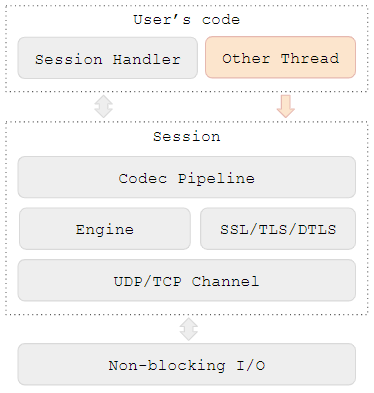
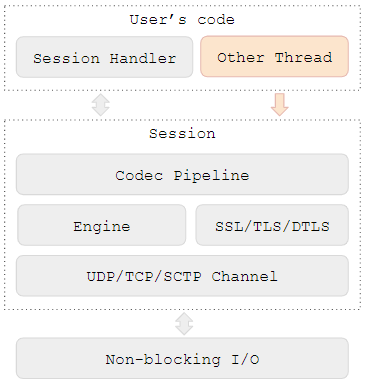
Release1.7.0 (#64)

diff --git a/site/index.html b/site/index.html
@@ -3,7 +3,7 @@
   <head>
     <meta charset="utf-8">
     <meta name="viewport" content="width=device-width, initial-scale=1, shrink-to-fit=no">
-    <meta name="keywords" content="java, non-blocking,asynchronous,networking,framework,socket,nio,udp,tcp,ssl,tls,dtls,protocol engine">
+    <meta name="keywords" content="java, non-blocking,asynchronous,networking,framework,socket,nio,udp,tcp,sctp,ssl,tls,dtls,protocol engine">
     <meta name="description" content="An asynchronous event-driven network application framework for quick and easy development of network applications">
     <meta name="author" content="SNF4J.ORG">
 
@@ -77,7 +77,7 @@
   <h1>Introduction</h1>
   <hr>
    <p>Simple Network Framework for Java (SNF4J) is an asynchronous event-driven network application framework for quick and easy development of network applications.
-   <p>The SNF4J serves as a simple, lightweight and independent network application framework helping in developing high performance and scalable network applications. It provides an asynchronous API via the Java NIO to handle various transports like TCP/IP and UDP/IP.
+   <p>The SNF4J serves as a simple, lightweight and independent network application framework helping in developing high performance and scalable network applications. It provides an asynchronous API via the Java NIO to handle various transports like TCP/IP, UDP/IP and SCTP/IP.
    <p>The framework is designed to be simple in use and moderately easy to understand. Application developers that like to keep their ear to the ground will not be overwhelmed by a tone of source code. It is oriented towards delivering core networking functionality as transferring data between two or more communicating network applications in a simple but effective way. To provide privacy and integrity of transferred data it provides support for the SSL/TLS/DTLS protocols.
 
    <div class="float-right mr-5">
@@ -91,9 +91,9 @@
     <h4>Design</h4>
    
     <ul>
-     <li> Unified API for transport layer types: TCP and UDP
+     <li> Unified API for transport layer types: TCP, UDP and SCTP
      <li> Event-driven API for developing asynchronous network applications
-     <li> Customizable protocol engines for transport layer types: TCP and UDP
+     <li> Customizable protocol engines for transport layer types: TCP, UDP and SCTP	
      <li> Utilities for development of UDP server applications
      <li> Simple API for customizable encoder-decoder pipelines
      <li> Provide ease of programing multi-thread applications in a single-thread way
@@ -314,7 +314,7 @@ loop.join();
 
   <!-- Copyright -->
   <hr>
-  <div class="footer-copyright text-center py-3">&copy; 2020 Copyright: SNF4J.ORG
+  <div class="footer-copyright text-center py-3">&copy; 2021 Copyright: SNF4J.ORG
   </div>
   <!-- Copyright -->
 

diff --git a/snf4j-example/src/main/java/org/snf4j/example/dtls/SessionConfig.java b/snf4j-example/src/main/java/org/snf4j/example/dtls/SessionConfig.java
@@ -1,7 +1,7 @@
 /*
  * -------------------------------- MIT License --------------------------------
  * 
- * Copyright (c) 2020 SNF4J contributors
+ * Copyright (c) 2020-2021 SNF4J contributors
  * 
  * Permission is hereby granted, free of charge, to any person obtaining a copy
  * of this software and associated documentation files (the "Software"), to deal
@@ -43,16 +43,17 @@ import org.snf4j.core.session.SSLEngineCreateException;
 public class SessionConfig extends DefaultSessionConfig {
 	
 	final static int MAX_PACKET_SIZE = 1024;
-	
+
 	final static int MAX_APPLICATION_DATA_SIZE = 512;
-	
+
 	static volatile SSLContext sslContext = null; 
 
 	SessionConfig() {
 		setMinInBufferCapacity(MAX_PACKET_SIZE);
 		setMinOutBufferCapacity(MAX_PACKET_SIZE);
+		setIgnorePossiblyIncompleteDatagrams(false);
 	}
-	
+
 	void load(KeyStore ks, String fileName, char[] password) throws Exception {
 		InputStream in = getClass().getResourceAsStream(fileName);
 		
@@ -63,7 +64,7 @@ public class SessionConfig extends DefaultSessionConfig {
 			in.close();
 		}
 	}
-	
+
 	SSLContext getSSLContext() throws SSLEngineCreateException {
 		if (sslContext == null) {
 			try {

diff --git a/RELEASE-NOTES.md b/RELEASE-NOTES.md
@@ -1,3 +1,11 @@
+#### 1.7.0
+ - 2021-03-20 - [changes](https://github.com/snf4j/snf4j/compare/v1.6.0...v1.7.0)
+ - Added channel context for selector loop genericity [(#55)](https://github.com/snf4j/snf4j/pull/55)
+ - Added support for SCTP protocol [(#60)](https://github.com/snf4j/snf4j/pull/60)
+ - Fixed #56: Encoding does not release buffers when the last encoder has byte[] as the inbound type [(#61)](https://github.com/snf4j/snf4j/pull/61)
+ - Fixed #57: Future objects returned by write/send methods of datagram-oriented sessions may signal completion too quickly [(#61)](https://github.com/snf4j/snf4j/pull/61)
+ - Fixed #62: Adding/Removal of an event-driven codec to/from a codec pipeline is not signaled in open sessions [(#63)](https://github.com/snf4j/snf4j/pull/63)
+ 
 #### 1.6.0
  - 2020-12-30 - [changes](https://github.com/snf4j/snf4j/compare/v1.5.0...v1.6.0)
  - Improved handling of empty buffers in engine handlers [(#48)](https://github.com/snf4j/snf4j/pull/48)
